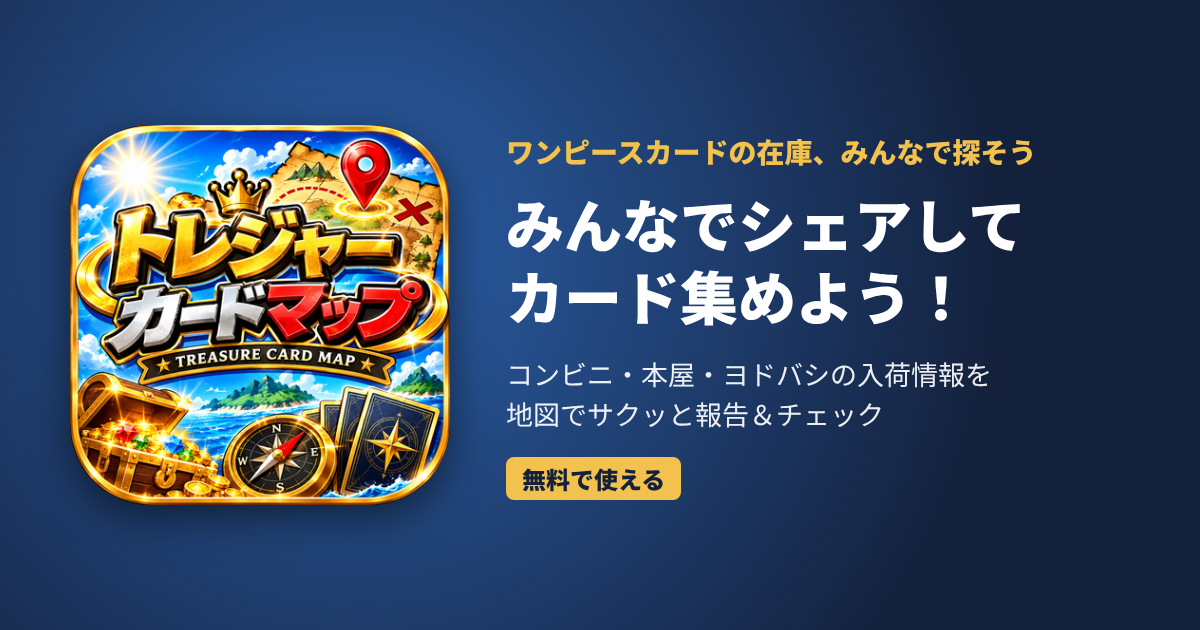
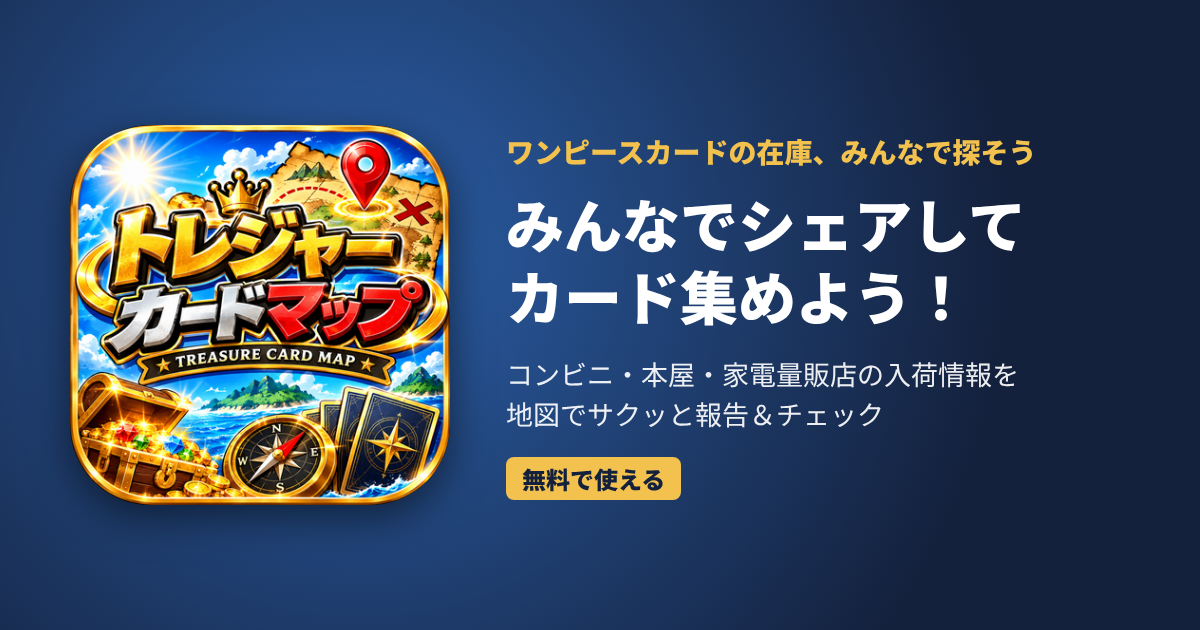
紹介文・シェア用画像・凡例から店名（ヨドバシ）を外し「家電量販店」に
Claude-Session: https://claude.ai/code/session_014sBvviqKrFqjMhG1atkLUL

Changed region(s): [[0.5858, 0.573, 0.8633, 0.6333]]

diff --git a/index.html b/index.html
@@ -11,7 +11,7 @@
 <meta property="og:type" content="website">
 <meta property="og:site_name" content="トレジャーカードマップ">
 <meta property="og:title" content="トレジャーカードマップ｜ワンピースカードの在庫をみんなで報告する地図（非公式）">
-<meta property="og:description" content="コンビニ・本屋・ヨドバシなどのワンピースカード入荷・在庫情報を、地図でサクッと報告＆チェック。無料・非公式。">
+<meta property="og:description" content="コンビニ・本屋・家電量販店などのワンピースカード入荷・在庫情報を、地図でサクッと報告＆チェック。無料・非公式。">
 <meta property="og:url" content="https://khbsk777-web.github.io/onepiece-card-map/">
 <meta property="og:image" content="https://khbsk777-web.github.io/onepiece-card-map/og.png">
 <meta property="og:image:width" content="1200">
@@ -19,7 +19,7 @@
 <meta property="og:locale" content="ja_JP">
 <meta name="twitter:card" content="summary_large_image">
 <meta name="twitter:title" content="トレジャーカードマップ｜ワンピースカードの在庫マップ（非公式）">
-<meta name="twitter:description" content="コンビニ・本屋・ヨドバシなどの入荷・在庫情報を、地図でみんなで報告＆チェック。">
+<meta name="twitter:description" content="コンビニ・本屋・家電量販店などの入荷・在庫情報を、地図でみんなで報告＆チェック。">
 <meta name="twitter:image" content="https://khbsk777-web.github.io/onepiece-card-map/og.png">
 <link rel="icon" href="icons/favicon-48.png" type="image/png">
 <link rel="apple-touch-icon" href="icons/apple-touch-icon.png">
@@ -60,7 +60,7 @@
 </div>
 
 <details class="legend"><summary>🗺 凡例</summary><div class="lg-body">
-  <span><i class="dot in"></i>あり</span><span><i class="dot low"></i>わずか</span><span><i class="dot out"></i>売切</span><span><i class="dot soon"></i>入荷予定</span><span><i class="dot na"></i>取り扱いなし</span><span><i class="dot none"></i>情報なし/古い</span><span><b class="cvs mini">セブン</b> コンビニ（拡大で表示）</span><span>📚🏬🃏 その他のお店</span><span class="lg-title">報告なしのお店</span><span><i class="dot" style="background:#111"></i>コンビニ（全国）</span><span><i class="dot" style="background:#ea580c"></i>ヨドバシカメラ</span><span><i class="dot" style="background:#0d9488"></i>本屋（福岡県）</span><span><i class="dot" style="background:#7c3aed"></i>商業施設</span><span><i class="dot" style="background:#db2777"></i>カード・ホビー店</span><span class="lg-title">投稿できる範囲</span><span><i class="dot" style="background:#22c55e33;border:2px dashed #16a34a"></i>緑の円＝現在地から3km</span>
+  <span><i class="dot in"></i>あり</span><span><i class="dot low"></i>わずか</span><span><i class="dot out"></i>売切</span><span><i class="dot soon"></i>入荷予定</span><span><i class="dot na"></i>取り扱いなし</span><span><i class="dot none"></i>情報なし/古い</span><span><b class="cvs mini">セブン</b> コンビニ（拡大で表示）</span><span>📚🏬🃏 その他のお店</span><span class="lg-title">報告なしのお店</span><span><i class="dot" style="background:#111"></i>コンビニ（全国）</span><span><i class="dot" style="background:#ea580c"></i>家電量販店</span><span><i class="dot" style="background:#0d9488"></i>本屋（福岡県）</span><span><i class="dot" style="background:#7c3aed"></i>商業施設</span><span><i class="dot" style="background:#db2777"></i>カード・ホビー店</span><span class="lg-title">投稿できる範囲</span><span><i class="dot" style="background:#22c55e33;border:2px dashed #16a34a"></i>緑の円＝現在地から3km</span>
 </div></details>
 
 <!-- 下から出てくるパネル（中身はJSで作る） -->

diff --git a/app.js b/app.js
@@ -1232,7 +1232,7 @@ function initFilters() {
     S.placesMode = pm.value;
     try { localStorage.setItem("opmap-places-mode", S.placesMode); } catch {}
     renderPlaces(); loadPlaces(); renderFukuoka(); loadPrefData();
-    if (S.placesMode !== "off" && S.map.getZoom() < PLACE_MIN_ZOOM) toast("地図を拡大すると、周辺のお店が出てきます（コンビニ・ヨドバシは点で表示中）");
+    if (S.placesMode !== "off" && S.map.getZoom() < PLACE_MIN_ZOOM) toast("地図を拡大すると、周辺のお店が出てきます（コンビニ・家電量販店は点で表示中）");
   };
   const pf = $("#productFilter");
   pf.replaceChildren(el("option", { value: "", text: "全商品" }), ...Object.entries(PRODUCTS).map(([k, v]) => el("option", { value: k, text: v })));
@@ -1309,7 +1309,7 @@ async function main() {
   window.matchMedia?.("(prefers-color-scheme: dark)").addEventListener?.("change", applyTheme);
   showReleaseBanner();
   // 開いてすぐ見える「𝕏」ボタン：アプリを紹介する文をXに入れて開く
-  $("#xShareFab").href = `https://x.com/intent/post?text=${encodeURIComponent(`みんなでシェアしてカード集めよう！🗺\nワンピースカードの在庫を報告し合える地図アプリ「トレジャーカードマップ」\nコンビニ・本屋・ヨドバシの入荷情報がひと目で分かる！無料で使えるよ\n${TAGS}`)}&url=${encodeURIComponent(APP_URL)}`;
+  $("#xShareFab").href = `https://x.com/intent/post?text=${encodeURIComponent(`みんなでシェアしてカード集めよう！🗺\nワンピースカードの在庫を報告し合える地図アプリ「トレジャーカードマップ」\nコンビニ・本屋・家電量販店の入荷情報がひと目で分かる！無料で使えるよ\n${TAGS}`)}&url=${encodeURIComponent(APP_URL)}`;
   // 開いたときに画面の真ん中に「Xでシェアしてね」を出す（「今日はもう表示しない」を押した日は出さない）
   const XKEY = "opmap-xmodal-off";
   const today = new Date().toLocaleDateString("ja-JP");
